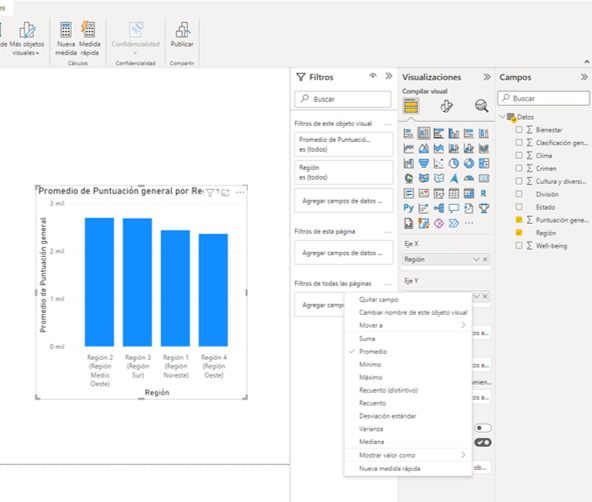
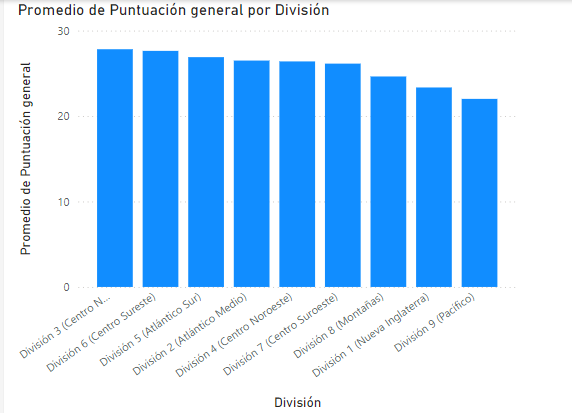
changes:V2

diff --git a/Capítulo6/README_6.3.md b/Capítulo6/README_6.3.md
@@ -1,67 +1,80 @@
-# Práctica 6.3. Cargar datos con Power BI.
+# Práctica 6.2. Unificación de nombres en una celda utilizando Power Query.
+
 
 ## Objetivo de la práctica:
 
 Al finalizar la práctica, serás capaz de:
 
-- Cargar datos a Power BI Desktop. <br>
-- Crear un gráfico en Power BI.
+- Aprender a utilizar Power Query para combinar columnas de texto en una sola celda y formatear los datos de manera eficiente. En este caso, unificar los campos de Nombre, Apellido Paterno y Apellido Materno en una nueva columna denominada _Nombre Completo_.
 
 ## Duración aproximada:
 
-- 15 minutos.
+- 10 minutos.
 
 ## Escenario:
 
-Imagina que estás a punto de jubilarte y estás considerando mudarte a un lugar con abundante sol, bajos índices de delincuencia y acceso a servicios médicos de alta calidad. O, tal vez eres un analista de datos que necesita esta información para ayudar a tus clientes a tomar decisiones estratégicas. Por ejemplo, podrías asistir a un distribuidor de gafas de sol a dirigir su promoción hacia las zonas donde el sol brilla con mayor frecuencia.
+Tienes una base de datos de clientes donde los campos Nombre, Apellido Paterno y Apellido Materno están separados en distintas columnas. Sin embargo, para algunos informes, necesitas consolidar el nombre completo de cada cliente en una sola celda. En lugar de hacerlo manualmente, utilizarás Power Query para automatizar este proceso, combinando estos campos en una nueva columna llamada Nombre Completo.
 
-## Instrucciones:
+Este procedimiento es útil en situaciones comunes, como la preparación de listas de correos electrónicos, informes de clientes o el análisis de datos, donde es necesario presentar el nombre completo de cada persona de manera clara y organizada.
 
-Utilizar el archivo llamado: [Estados para la jubilación 2022](< Estados para la jubilación 2022.xlsx>).
+### Tarea 1. Cargar los datos.
 
-### Tarea 1. Obtener datos.
+**Paso 1.** Descarga y guarda el siguiente archivo llamado: [Registros clientes](<Registros clientes.csv>), el cual está en formato csv.
 
-**Paso 1.** Dentro de la máquina virtual encontrarás instalado el **Power BI Desktop**; por favor, inicia la aplicación.
+Podrás observar las columnas separadas de _Nombre_, _Apellido Paterno_ y _Apellido Materno_.
 
-**Paso 2.** Selecciona la pestaña **Inicio** de la cinta de opciones y luego selecciona _Obtener datos > Libro de Excel_.
+**Paso 2.** Dirígete a la pestaña _Datos > Obtener datos > Desde archivo > De texto/CSV_.
 
-![img238](../images/img238.png)
+![img243A](../images/img243A.png)
 
-### Tarea 2. Cargar datos.
+**Paso 3.** Selecciona el archivo *Registro Clientes*, el cual contiene los nombres, apellidos paternos y maternos.
 
-**Paso 1.** Ahora que has seleccionado la opción de *Libro de Excel*, ya puedes realizar la carga de datos en Power BI Desktop. Para esto, aparecerá una ventana donde puedes observar las opciones que tienes para cargar los datos, **Datos** o **Sheet1**.
+**Paso 4.** En el panel del Navegador, selecciona la tabla que contiene estos datos y haz clic en **Transformar datos** para abrir el editor de Power Query.
 
-En este caso, lo recomendable es utilizar la opción de Tabla ‘Datos’ con el fin de evitar un proceso de depuración que puede requerir al importar desde la hoja de Excel. Observa que al seleccionar cualquiera de las dos opciones, podrás tener una vista previa de los datos.
+![img244](../images/img244.png)
 
-Selecciona la tabla ‘Datos’ y luego haz clic en el botón amarillo que dice **Cargar**.
+### Tarea 2. Combinar columnas.
 
-![img239](../images/img239.png)
+**Paso 1.** En el editor de Power Query, haz clic en el cuadro izquierdo que aparece a lado de la _Column1_ y selecciona la opción de **Usar la primera fila como encabezado**.
 
-### Tarea 3. Analizar los datos con lo que dispones en la pestaña de datos.
+![img248](../images/img248.png)
 
-**Paso 1.** Ya que has realizado la carga de datos, puedes analizar los datos en la pestaña de datos con el fin de hacer una primera impresión del tipo de datos, valores, categoría y formatos.
+**Paso 2.** Selecciona las 3 columnas que traen información del nombre y los apellidos. 
 
-![img240](../images/img240.png)
+![img245A](../images/img245A.png)
 
-### Tarea 4. Crear un gráfico para el análisis de datos.
+**Paso 3.** Da clic derecho y selecciona **Combinar columnas**.
 
-Ahora, en la pestaña de informe, puedes realizar un análisis rápido de los datos para visualizar el promedio de puntaje según las regiones de Estados Unidos. El gráfico más adecuado para este análisis es un gráfico de columnas apiladas.
+![img246A](../images/img246A.png)
 
-**Paso 1.** Regresa a la vista de informe y selecciona el segundo ícono **"Gráfico de columnas apiladas"**.
+**Paso 4.** Elige como separador la opción de **Espacio** y, en _Nuevo nombre de columna_, escribe: `Nombre completo`.
 
-**Paso 2.** Del panel de Datos que se encuentra en el costado derecho, selecciona los campos: 
+![img247A](../images/img247A.png)
 
-- Puntuación General. <br>
-- Región.
+**Paso 5.** Selecciona la columa **ID**, da clic derecho y remuévela.
 
-Da clic en la flecha hacia abajo que está en el elemento del Eje Y. Finalmente, selecciona **Promedio** en la lista que aparece.
+![img251](../images/img251.png)
 
-![img241](../images/img241.png)
+**Paso 6.** Selecciona la columna *Nombre completo* y da clic en **Cerrar y cargar en**.
+
+![img253](../images/img253.png)
+
+**Paso 7.** Deja marcado la opción _Tabla_; adicionalemente, marca la opción de Hoja de cálculo existente, selecciona la celda **E1** y da clic en **Aceptar**.
+
+![img252](../images/img252.png)
+
+**Paso 8.** Como resultado, obtendrás la nueva columna de nombre completo, únicamente dale el mismo formato que la tabla original. 
+
+![img254](../images/img254.png)
+
+**Paso 9.** Guarda los cambios y cierra el archivo.
 
 ### Resultado esperado:
 
-![img242](../images/img242.png)
+![img255](../images/img255.png)
 
 ## [Menú principal](../README.md)
 
-## [Práctica 6.2. Unificación de nombres en una celda utilizando Power Query.](../Capítulo6/README_6.2.md)
+## [Práctica 6.1. Consolidación de Ventas.](../Capítulo6/README_6.1.md)
+
+## [Práctica 6.3. Cargar datos con Power BI.](../Capítulo6/README_6.3.md)

diff --git a/Capítulo6/README_6.4.md b/Capítulo6/README_6.4.md
@@ -1,0 +1,69 @@
+# Práctica 6.4. Cargar datos con Power BI.
+
+## Objetivo de la práctica:
+
+Al finalizar la práctica, serás capaz de:
+
+- Cargar datos a Power BI Desktop. <br>
+- Crear un gráfico en Power BI.
+
+## Duración aproximada:
+
+- 15 minutos.
+
+## Escenario:
+
+Imagina que estás a punto de jubilarte y estás considerando mudarte a un lugar con abundante sol, bajos índices de delincuencia y acceso a servicios médicos de alta calidad. O, tal vez eres un analista de datos que necesita esta información para ayudar a tus clientes a tomar decisiones estratégicas. Por ejemplo, podrías asistir a un distribuidor de gafas de sol a dirigir su promoción hacia las zonas donde el sol brilla con mayor frecuencia.
+
+## Instrucciones:
+
+Utilizar el archivo llamado: [Estados para la jubilación 2022](< Estados para la jubilación 2022.xlsx>).
+
+### Tarea 1. Obtener datos.
+
+**Paso 1.** Dentro de la máquina virtual encontrarás instalado el **Power BI Desktop**; por favor, inicia la aplicación.
+
+**Paso 2.** Selecciona la pestaña **Inicio** de la cinta de opciones y luego selecciona _Obtener datos > Libro de Excel_.
+
+![img238](../images/img238.png)
+
+### Tarea 2. Cargar datos.
+
+**Paso 1.** Ahora que has seleccionado la opción de *Libro de Excel*, ya puedes realizar la carga de datos en Power BI Desktop. Para esto, aparecerá una ventana donde puedes observar las opciones que tienes para cargar los datos, **Datos** o **Sheet1**.
+
+En este caso, lo recomendable es utilizar la opción de Tabla ‘Datos’ con el fin de evitar un proceso de depuración que puede requerir al importar desde la hoja de Excel. Observa que al seleccionar cualquiera de las dos opciones, podrás tener una vista previa de los datos.
+
+Selecciona la _Hoja 1_ y luego haz clic en el botón que dice **Cargar**.
+
+![img239](../images/img239.png)
+
+### Tarea 3. Analizar los datos con lo que dispones en la pestaña de datos.
+
+**Paso 1.** Ya que has realizado la carga de datos, puedes analizar los datos en la pestaña de datos con el fin de hacer una primera impresión del tipo de datos, valores, categoría y formatos.
+
+![img240](../images/img240.png)
+
+### Tarea 4. Crear un gráfico para el análisis de datos.
+
+Ahora, en la pestaña de informe, puedes realizar un análisis rápido de los datos para visualizar el promedio de puntaje según las regiones de Estados Unidos. El gráfico más adecuado para este análisis es un gráfico de columnas apiladas.
+
+**Paso 1.** Regresa a la vista de informe y selecciona el segundo ícono _"Gráfico de columnas apiladas"_.
+
+![img240A](../images/img240A.png)
+
+**Paso 2.** Del panel de Datos que se encuentra en el costado derecho, selecciona los campos: 
+
+- Puntuación General. <br>
+- División.
+
+Da clic en la flecha hacia abajo que está en el elemento del Eje Y. Finalmente, selecciona **Promedio** en la lista que aparece.
+
+![img241](../images/img241.png)
+
+### Resultado esperado:
+
+![img242](../images/img242.png)
+
+## [Menú principal](../README.md)
+
+## [Práctica 6.2. Unificación de nombres en una celda utilizando Power Query.](../Capítulo6/README_6.2.md)

diff --git a/Capítulo3/README_3.1.md b/Capítulo3/README_3.1.md
@@ -22,7 +22,7 @@ Identificar y eliminar registros duplicados en un conjunto de datos:
 
 **Paso 2.** Tienes las columnas de _Nombre_, _apellido_, _dirección_, _ciudad_, _estado_, _código postal_, _teléfono_ y _correo electrónico_. Asimismo, hay múltiples registros duplicados, para lo cual debes escoger la columna de _correo_ y _télefono_, ya que puedes tener nombres repetidos; es decir, no es la misma persona, sino el mismo apellido y la ciudad. 
 
-Dirígete a *Inicio > Formato condicional > Reglas para resltar Celdas > Valores duplicados*.
+Dirígete a *Inicio > Formato condicional > Reglas para resaltar Celdas > Valores duplicados*.
 
 ![imagen 92](../images/img92.png)
 
